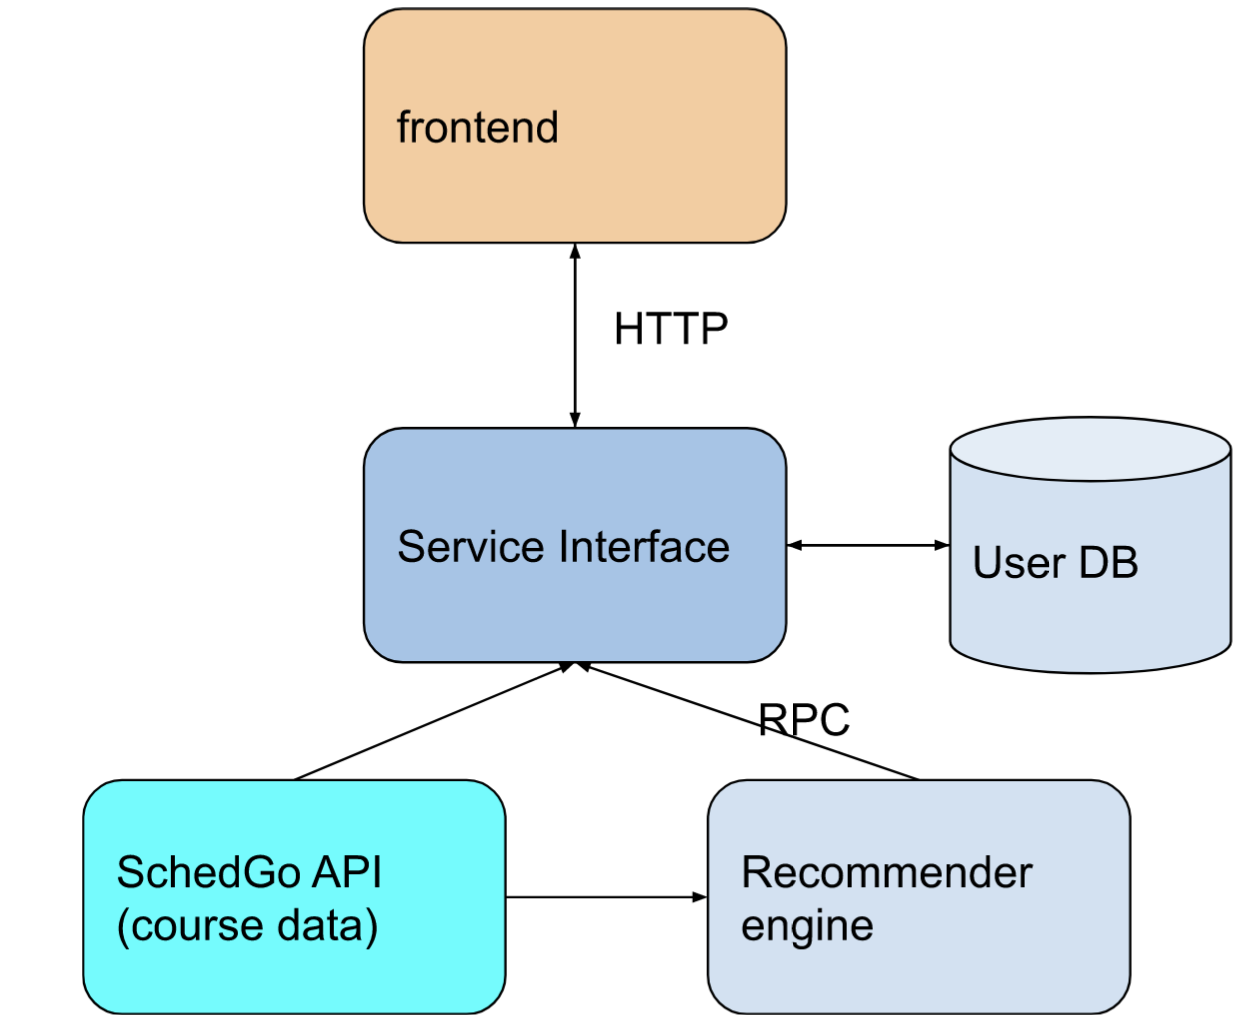
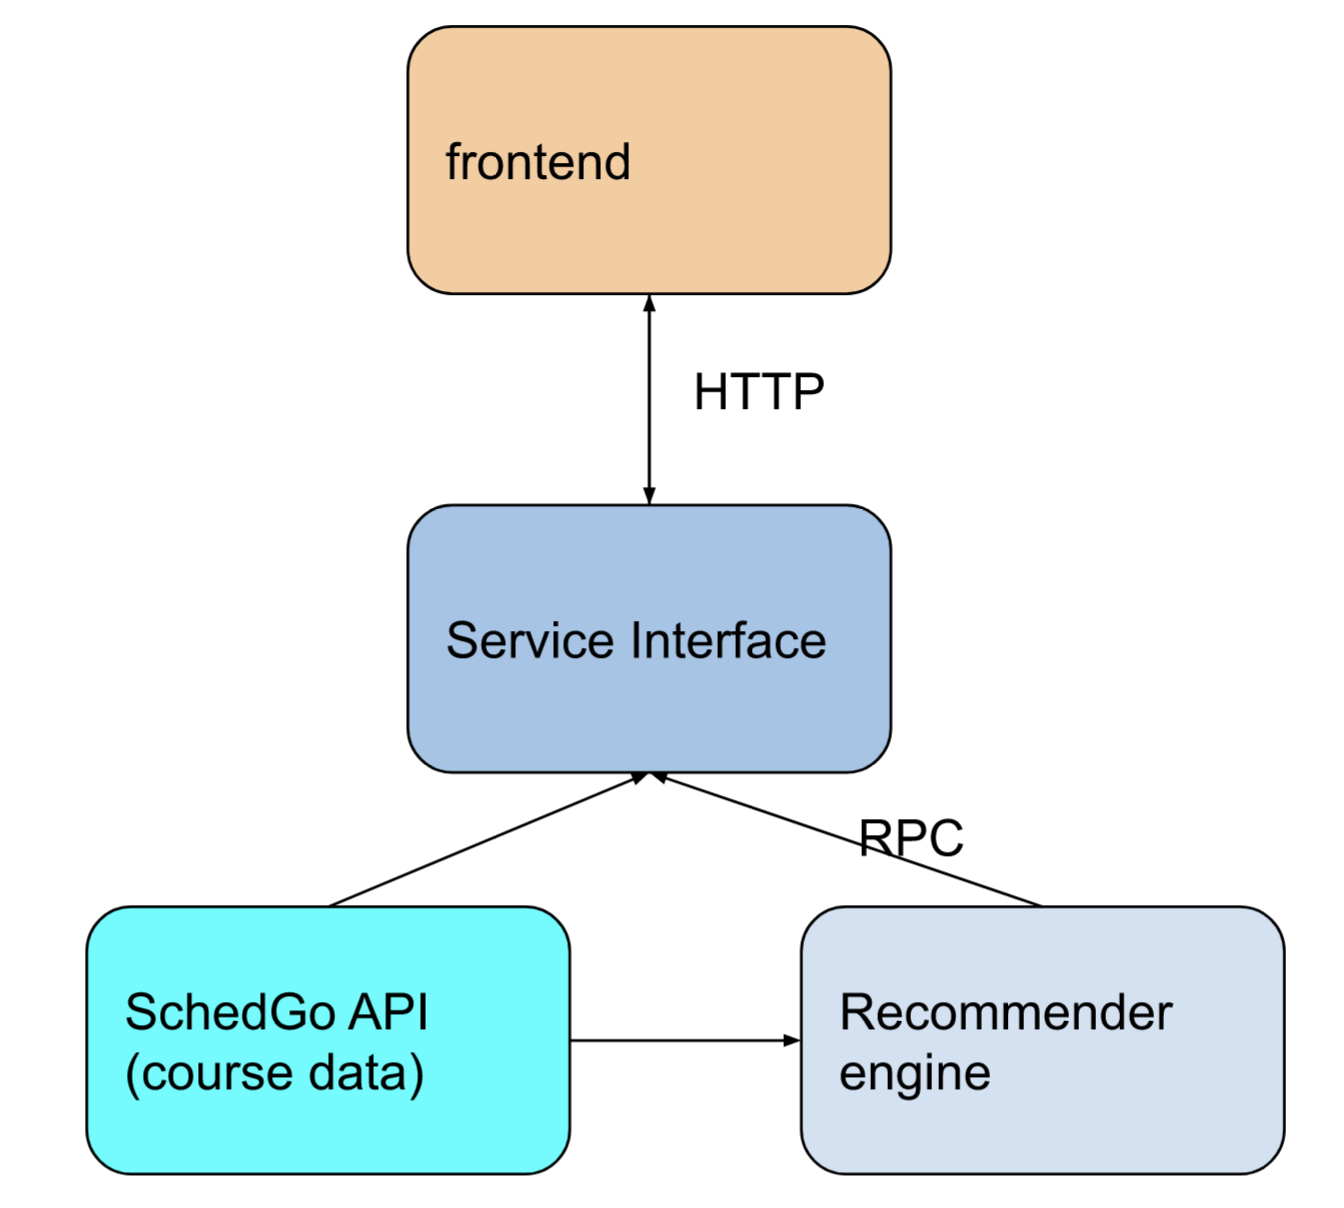
feat: update doc for API

Changed region(s): [[0.0624, 0.0, 0.9672, 0.9942], [0.7176, 0.4039, 0.9984, 0.6524], [0.312, 0.6835, 0.3744, 0.7146]]

diff --git a/ServiceInterface.md b/ServiceInterface.md
@@ -1,5 +1,5 @@
 # Service Interface
-
+<!-- 
 ## POST /auth-token
 
 Starts a user session. Since this is a beginner friendly project, the server will just have one session at a time (no concurrency needed).
@@ -29,17 +29,23 @@ Updates user info in the db
 
 | **Key** | **Description**       |
 | ------- | --------------------- |
-| courses | top-K matched courses |
+| courses | top-K matched courses | -->
 
-## GET /users/{uid}
+## GET /recom
+
+| **Argument** | **Description**                                |
+| ------------ | ---------------------------------------------- |
+| liked        | string, a previous course code that user liked |
+| k            | int, number of recommendation                  |
+| subjects     | string, list of subject code, csv              |
 
 ### Return Object
 
-| **Key** | **Description**       |
-| ------- | --------------------- |
-| courses | top-K matched courses |
+| **Key** | **Description**                    |
+| ------- | ---------------------------------- |
+| courses | string, top-k matched courses, csv |
 
-# User DB
+<!-- # User DB
 
 | **field** | **type**   | **constrains** | **description**                                              |
 | --------- | ---------- | -------------- | ------------------------------------------------------------ |
@@ -53,4 +59,4 @@ Updates user info in the db
 Or just use csv for simplicity.
 
 - Since there will be no concurrency, querying one row each time does not worth it
-- Up to discussion
+- Up to discussion -->

diff --git a/README.md b/README.md
@@ -2,7 +2,7 @@
 
 design documents for the Course Recommender project
 
-**NOTE** all content in the doc are open to discussion. Please use `Issue` for any question/concern.
+**NOTE** all content in the doc are open to discussion. Please use `Issue` for any question/concern.
 
 ![arch](./img/arch.png)
 
@@ -11,7 +11,7 @@ design documents for the Course Recommender project
 ## Table of Content
 
 * [Frontend](./Frontend.md) @[JackyWangRechar ](https://github.com/JackyWangRechar)
-* [Service Interface](./ServiceInterface.md) @[Keyingl](https://github.com/Keyingl) @[Yifeng He](https://github.com/EYH0602)
+* [Service Interface](./ServiceInterface.md) @[Yifeng He](https://github.com/EYH0602)@[JackyWangRechar ](https://github.com/JackyWangRechar)
 * [Recommender Engine](./RecommenderEngine.md) @[Yifeng He](https://github.com/EYH0602)
 * [SchedGo](https://schedgo.com/)
 
